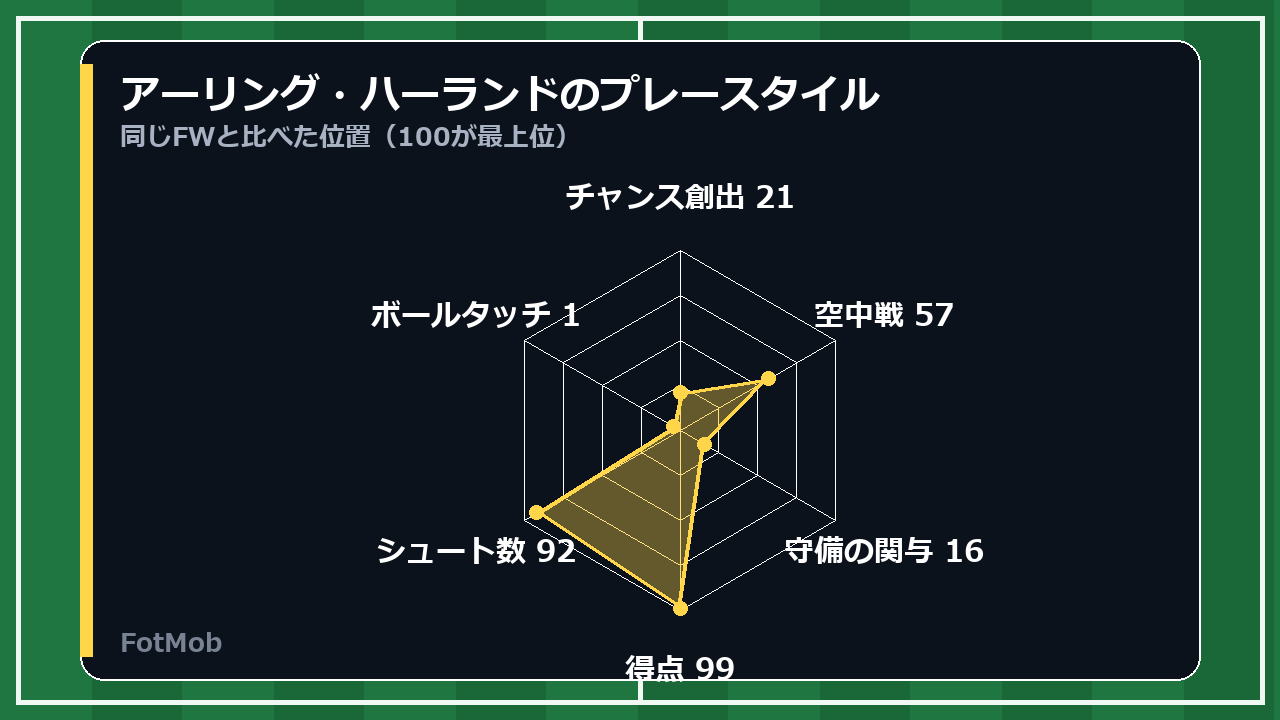
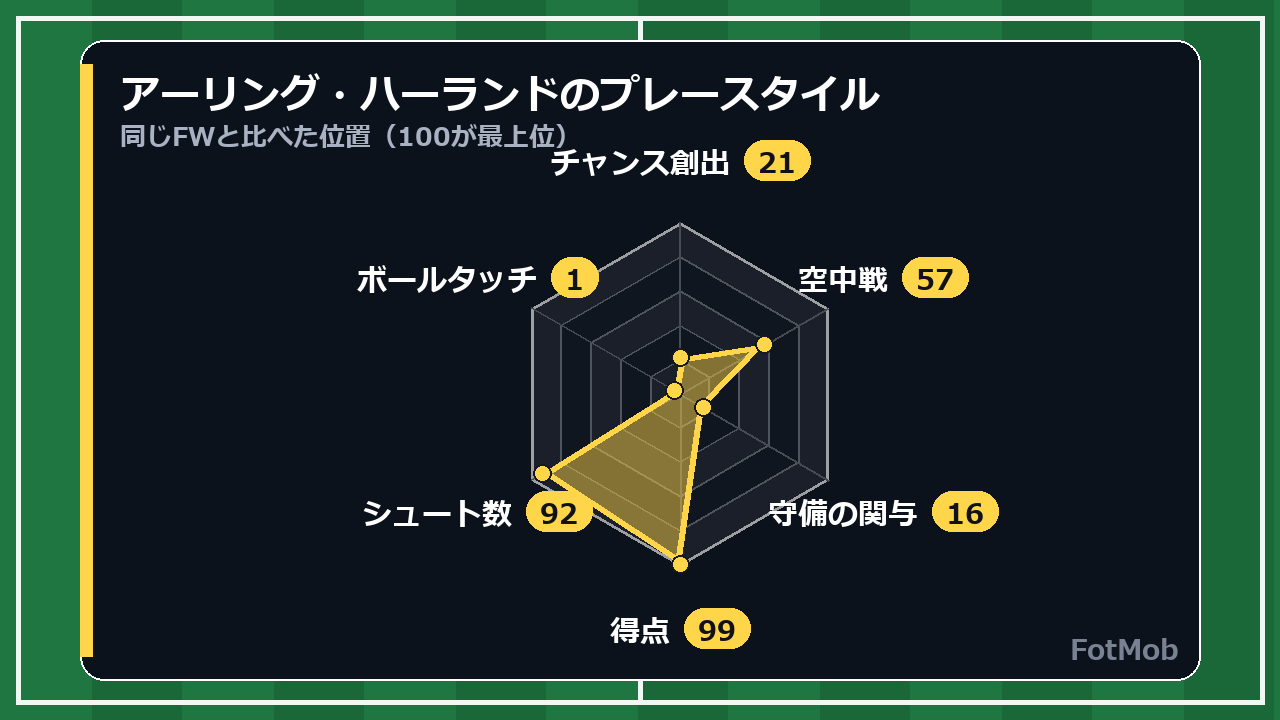
図と表の質を上げる：棒グラフ（太い棒・グラデ・目盛り・右揃え）、表（数字の右揃え・評点の強調）、レーダー（5段の網目・値の札）、シュートマップ（数字の札・縞・ゴール枠・光）

Changed region(s): [[0.2812, 0.1833, 0.7812, 0.9472], [0.8125, 0.8861, 0.9375, 0.9167], [0.0938, 0.8861, 0.1875, 0.9167]]

diff --git a/projects/youtube-video-creation/tools/fotmob_player.py b/projects/youtube-video-creation/tools/fotmob_player.py
@@ -178,28 +178,39 @@ def radar_board(group: str, items: list[tuple[str, float]], out: Path, name: str
     draw.text((px + 40, py + 26), f"{name}のプレースタイル", font=_font(40), fill=(255, 255, 255, 255))
     draw.text((px + 40, py + 78), f"{group}と比べた位置（100が最上位）", font=_font(26), fill=(168, 178, 194, 255))
     # 上の軸の文字が見出しと重ならないよう、中心を下げて半径を抑える（実物で重なった）
-    cx, cy, r = px + pw // 2 + 40, py + ph // 2 + 70, 180
+    cx, cy, r = px + pw // 2 + 40, py + ph // 2 + 34, 172
     n = max(3, len(items))
     angles = [-math.pi / 2 + 2 * math.pi * i / n for i in range(n)]
-    for level in (0.25, 0.5, 0.75, 1.0):
+    # 網目：5段。段ごとに薄い塗りを交互に入れて奥行きを出す（2026-09-28「図のクオリティを上げて」）
+    web = Image.new("RGBA", canvas.size, (0, 0, 0, 0))
+    wd = ImageDraw.Draw(web)
+    for k in range(5, 0, -1):
+        level = k / 5
         pts = [(cx + r * level * math.cos(a), cy + r * level * math.sin(a)) for a in angles]
-        draw.polygon(pts, outline=(255, 255, 255, 60 if level < 1.0 else 120))
+        wd.polygon(pts, fill=(255, 255, 255, 14 if k % 2 else 4), outline=(255, 255, 255, 70 if k < 5 else 150), width=2 if k < 5 else 3)
     for a in angles:
-        draw.line([(cx, cy), (cx + r * math.cos(a), cy + r * math.sin(a))], fill=(255, 255, 255, 50), width=1)
+        wd.line([(cx, cy), (cx + r * math.cos(a), cy + r * math.sin(a))], fill=(255, 255, 255, 60), width=2)
+    canvas.alpha_composite(web)
     layer = Image.new("RGBA", canvas.size, (0, 0, 0, 0))
     ld = ImageDraw.Draw(layer)
     pts = [(cx + r * max(0.04, v) * math.cos(a), cy + r * max(0.04, v) * math.sin(a)) for (_, v), a in zip(items, angles)]
-    ld.polygon(pts, fill=BRAND_GOLD + (90,), outline=BRAND_GOLD + (255,), width=4)
+    ld.polygon(pts, fill=BRAND_GOLD + (120,), outline=BRAND_GOLD + (255,), width=6)
     canvas.alpha_composite(layer)
     draw = ImageDraw.Draw(canvas)
-    f_label, f_val = _font(30), _font(26)
+    f_label, f_val = _font(30), _font(28)
     for (label, v), a, (x, y) in zip(items, angles, pts):
-        draw.ellipse([x - 7, y - 7, x + 7, y + 7], fill=BRAND_GOLD + (255,))
-        lx, ly = cx + (r + 56) * math.cos(a), cy + (r + 56) * math.sin(a)
-        text = f"{label} {int(round(v * 100))}"
-        tw = draw.textlength(text, font=f_label)
-        draw.text((lx - tw / 2, ly - 18), text, font=f_label, fill=(255, 255, 255, 255))
-    draw.text((px + 40, py + ph - 56), "FotMob", font=f_val, fill=(120, 130, 146, 255))
+        draw.ellipse([x - 9, y - 9, x + 9, y + 9], fill=BRAND_GOLD + (255,), outline=(20, 24, 32, 255), width=2)
+        lx, ly = cx + (r + 62) * math.cos(a), cy + (r + 62) * math.sin(a)
+        # 軸の名前（白）＋ 値の札（黄の丸い札に濃い字）
+        value = f"{int(round(v * 100))}"
+        tw, vw = draw.textlength(label, font=f_label), draw.textlength(value, font=f_val)
+        total = tw + 14 + vw + 28
+        x0 = lx - total / 2
+        draw.text((x0, ly - 18), label, font=f_label, fill=(255, 255, 255, 255))
+        chip = [x0 + tw + 14, ly - 20, x0 + tw + 14 + vw + 28, ly + 20]
+        draw.rounded_rectangle(chip, radius=20, fill=BRAND_GOLD + (255,))
+        draw.text((chip[0] + 14, ly - 17), value, font=f_val, fill=(16, 18, 24, 255))
+    draw.text((px + pw - 130, py + ph - 50), "FotMob", font=f_val, fill=(120, 130, 146, 255))
     out.parent.mkdir(parents=True, exist_ok=True)
     canvas.convert("RGB").save(out)
     statboard._write_mark(out, f"{name}のプレースタイル", "percentile", [(l, round(v * 100)) for l, v in items], "FotMob")
@@ -218,10 +229,22 @@ def shotmap_board(shot_list: list[dict], out: Path, name: str, season_label: str
     goals = [s for s in shot_list if s.get("eventType") == "Goal"]
     xg = sum(float(s.get("expectedGoals") or 0) for s in shot_list)
     draw.text((px + 40, py + 26), f"{name}の{season_label}のシュート", font=_font(40), fill=(255, 255, 255, 255))
-    draw.text((px + 40, py + 78), f"シュート{len(shot_list)}本、得点{len(goals)}、xG合計{xg:.1f}", font=_font(26), fill=(168, 178, 194, 255))
-    # 敵陣の半面。ゴールが上。横=幅68m、縦=52.5m
+    draw.text((px + 40, py + 78), "丸の位置＝どこから蹴ったか、大きさ＝xG（決まりやすさ）", font=_font(26), fill=(168, 178, 194, 255))
+    # 左に大きな数字の札（シュート・得点・xG）
+    f_big, f_small = _font(56), _font(24)
+    ty = py + 130
+    for label, value in (("シュート", f"{len(shot_list)}"), ("得点", f"{len(goals)}"), ("xG合計", f"{xg:.1f}")):
+        draw.rounded_rectangle([px + 40, ty, px + 300, ty + 96], radius=16, fill=(30, 36, 48, 255))
+        draw.text((px + 60, ty + 10), label, font=f_small, fill=(168, 178, 194, 255))
+        vw = draw.textlength(value, font=f_big)
+        draw.text((px + 280 - vw, ty + 30), value, font=f_big, fill=BRAND_GOLD + (255,))
+        ty += 110
+    # 敵陣の半面。ゴールが上。横=幅68m、縦=52.5m。芝は縞にする
     gx, gy, gw, gh = px + 360, py + 130, 560, ph - 190
-    draw.rectangle([gx, gy, gx + gw, gy + gh], fill=(28, 96, 60, 255), outline=(230, 230, 230, 255), width=3)
+    stripe = gh // 8
+    for i in range(8):
+        draw.rectangle([gx, gy + i * stripe, gx + gw, gy + (i + 1) * stripe], fill=(30, 104, 64, 255) if i % 2 else (26, 92, 56, 255))
+    draw.rectangle([gx, gy, gx + gw, gy + gh], outline=(230, 230, 230, 255), width=3)
 
     def X(y_m):  # 幅方向（0〜68）→ 横
         return gx + gw * (y_m / PITCH_WID)
@@ -232,7 +255,10 @@ def shotmap_board(shot_list: list[dict], out: Path, name: str, season_label: str
     # ペナルティエリア・ゴールエリア・ゴール・センターサークル（半円）
     draw.rectangle([X(34 - 20.16), Y(105), X(34 + 20.16), Y(105 - 16.5)], outline=(230, 230, 230, 255), width=3)
     draw.rectangle([X(34 - 9.16), Y(105), X(34 + 9.16), Y(105 - 5.5)], outline=(230, 230, 230, 255), width=3)
-    draw.rectangle([X(34 - 3.66), gy - 12, X(34 + 3.66), gy], fill=(255, 255, 255, 255))
+    # ゴール枠（網の点も置く）
+    draw.rectangle([X(34 - 3.66), gy - 16, X(34 + 3.66), gy], fill=(245, 245, 245, 255))
+    for i in range(int(X(34 - 3.66)) + 6, int(X(34 + 3.66)) - 4, 8):
+        draw.line([(i, gy - 14), (i, gy - 2)], fill=(180, 180, 180, 255), width=1)
     draw.ellipse([X(34) - 3, Y(94) - 3, X(34) + 3, Y(94) + 3], fill=(230, 230, 230, 255))
     cr = gw * (9.15 / PITCH_WID)
     draw.arc([X(34) - cr, Y(52.5) - cr, X(34) + cr, Y(52.5) + cr], start=180, end=360, fill=(230, 230, 230, 255), width=3)
@@ -243,13 +269,19 @@ def shotmap_board(shot_list: list[dict], out: Path, name: str, season_label: str
         rad = 7 + 26 * float(s.get("expectedGoals") or 0) ** 0.5
         cx, cy = X(y), Y(x)
         if s.get("eventType") == "Goal":
+            # 得点はやわらかい光を敷いてから
+            glow = Image.new("RGBA", canvas.size, (0, 0, 0, 0))
+            gd = ImageDraw.Draw(glow)
+            gd.ellipse([cx - rad * 1.9, cy - rad * 1.9, cx + rad * 1.9, cy + rad * 1.9], fill=BRAND_GOLD + (70,))
+            canvas.alpha_composite(glow)
+            draw = ImageDraw.Draw(canvas)
             draw.ellipse([cx - rad, cy - rad, cx + rad, cy + rad], fill=BRAND_GOLD + (255,), outline=(20, 20, 20, 255), width=2)
         elif s.get("isOnTarget"):
             draw.ellipse([cx - rad, cy - rad, cx + rad, cy + rad], fill=(255, 255, 255, 60), outline=(255, 255, 255, 255), width=3)
         else:
             draw.ellipse([cx - rad, cy - rad, cx + rad, cy + rad], fill=(90, 96, 108, 200), outline=(200, 200, 200, 160), width=2)
-    # 凡例
-    lx, ly = px + 40, py + 150
+    # 凡例（数字の札の下）
+    lx, ly = px + 40, py + 470
     f = _font(28)
     for label, style in (("得点", "goal"), ("枠内", "on"), ("外れ・ブロック", "off")):
         if style == "goal":
@@ -260,8 +292,7 @@ def shotmap_board(shot_list: list[dict], out: Path, name: str, season_label: str
             draw.ellipse([lx, ly, lx + 26, ly + 26], fill=(90, 96, 108, 200), outline=(200, 200, 200, 160), width=2)
         draw.text((lx + 40, ly - 4), label, font=f, fill=(255, 255, 255, 255))
         ly += 50
-    draw.text((lx, ly + 10), "丸の大きさ＝xG", font=f, fill=(168, 178, 194, 255))
-    draw.text((px + 40, py + ph - 56), "FotMob", font=_font(26), fill=(120, 130, 146, 255))
+    draw.text((px + pw - 130, py + ph - 50), "FotMob", font=_font(26), fill=(120, 130, 146, 255))
     out.parent.mkdir(parents=True, exist_ok=True)
     canvas.convert("RGB").save(out)
     statboard._write_mark(out, f"{name}の{season_label}のシュート", "xG", [("shots", len(shot_list)), ("goals", len(goals)), ("xg", round(xg, 2))], "FotMob")

diff --git a/projects/youtube-video-creation/src/cards.py b/projects/youtube-video-creation/src/cards.py
@@ -471,9 +471,11 @@ def _bars(spec: dict, width: int, font_path: str, latin_path: str) -> list[dict]
     同じ指標どうしの比較なので棒は1色で通し、注目させたい1本だけ明るくする。
     数値は棒の右端に直接置く（動画なのでホバーで見せられない）。
     """
-    title_font = ImageFont.truetype(font_path, 42)
-    label_font = ImageFont.truetype(font_path, 34)
-    value_font = ImageFont.truetype(font_path, 34)
+    # **図の質を上げる**（2026-09-28 ユーザー「図や表のクオリティを上げて」）。
+    # 棒は太く（44px）、注目の1本は黄、ほかは緑のグラデ。薄い目盛りと、値の右揃え
+    title_font = ImageFont.truetype(font_path, 44)
+    label_font = ImageFont.truetype(font_path, 36)
+    value_font = ImageFont.truetype(font_path, 40)
 
     items = [dict(item) for item in (spec.get("items") or [])]
     if not items:
@@ -503,28 +505,40 @@ def _bars(spec: dict, width: int, font_path: str, latin_path: str) -> list[dict]
             }
         )
 
-    bar_left = PAD + 12 + label_width + 24
-    bar_span = width - PAD - bar_left - value_width - 34
-    row_height = 54
+    bar_left = PAD + 12 + label_width + 28
+    value_col = width - PAD - 12
+    bar_span = value_col - bar_left - value_width - 36
+    row_height = 70
+
+    def draw_scale(draw, y):
+        # 薄い目盛り（最大値の 1/4 ごと）。値の見当が付く
+        for k in range(1, 5):
+            x = bar_left + int(bar_span * k / 4)
+            draw.line([(x, y), (x, y + row_height * min(6, len(items)) + 8)], fill=(255, 255, 255, 22), width=1)
+
+    blocks.append({"height": 8, "draw": draw_scale})
 
     for item in items[:6]:
         ratio = max(0.0, float(item["value"])) / top
-        color = BAR_HIGHLIGHT if item.get("highlight") else BAR_BASE
+        strong = bool(item.get("highlight"))
 
-        def draw_row(draw, y, item=item, ratio=ratio, color=color):
-            draw.text((PAD + 12, y + 6), str(item["label"]), font=label_font, fill=SUB)
-            length = max(6, int(bar_span * ratio))
-            # 端を少し丸めた細い棒。土台（左端）は角を立てて基準線に合わせる
-            draw.rounded_rectangle(
-                [bar_left, y + 8, bar_left + length, y + 42], radius=4, fill=color + (255,)
-            )
-            draw.rectangle([bar_left, y + 8, bar_left + 6, y + 42], fill=color + (255,))
-            draw.text(
-                (bar_left + length + 16, y + 6),
-                f"{_number(item['value'])}{unit}",
-                font=value_font,
-                fill=TEXT,
-            )
+        def draw_row(draw, y, item=item, ratio=ratio, strong=strong):
+            draw.text((PAD + 12, y + 12), str(item["label"]), font=label_font, fill=TEXT)
+            length = max(8, int(bar_span * ratio))
+            top_y, bottom_y = y + 10, y + 54
+            # 土台の溝（薄い帯）に、色の棒を重ねる。棒は左から右へ明るくなるグラデ
+            draw.rounded_rectangle([bar_left, top_y, bar_left + bar_span, bottom_y], radius=10, fill=(255, 255, 255, 16))
+            start, end = ((196, 150, 20), (255, 213, 74)) if strong else ((11, 61, 46), (46, 140, 96))
+            for i in range(length):
+                t = i / max(1, length - 1)
+                color = tuple(int(start[c] + (end[c] - start[c]) * t) for c in range(3))
+                draw.line([(bar_left + i, top_y), (bar_left + i, bottom_y)], fill=color + (255,))
+            # 右端を丸める（半円を重ねる）
+            r = (bottom_y - top_y) // 2
+            draw.pieslice([bar_left + length - r, top_y, bar_left + length + r, bottom_y], start=270, end=90, fill=end + (255,))
+            text = f"{_number(item['value'])}{unit}"
+            tw = draw.textlength(text, font=value_font)
+            draw.text((value_col - tw, y + 8), text, font=value_font, fill=BRAND_GOLD if strong else TEXT)
 
         blocks.append({"height": row_height, "draw": draw_row, "row": True})
 
@@ -534,6 +548,20 @@ def _bars(spec: dict, width: int, font_path: str, latin_path: str) -> list[dict]
         blocks.append({"height": 14, "draw": lambda draw, y: None})
         blocks.append(_text_block(note, note_font, width - PAD * 2 - 12, SUB, 6))
     return blocks
+
+
+import re as _re
+
+NUMERIC_CELL = _re.compile(r"^[+\-−]?[\d,.]+(?:[%点本人回分秒位歳億万勝敗分試合GAkm]|G \d+A|試合（先発\d+）)?$|^[\d,.]+G [\d,.]+A$|^―$|^→$|^[↑↓]\d+$|^new$")
+RATING_CELL = _re.compile(r"^\d\.\d$")
+
+
+def _looks_numeric(text: str) -> bool:
+    return bool(NUMERIC_CELL.match(str(text).strip()))
+
+
+def _looks_rating(text: str) -> bool:
+    return bool(RATING_CELL.match(str(text).strip()))
 
 
 def _fit_cell(draw, text: str, font, room: float) -> str:
@@ -611,12 +639,19 @@ def _table(spec: dict, width: int, font_path: str, latin_path: str) -> list[dict
             }
         )
 
+    # 列の中身が数字（単位つきを含む）なら右揃えにする
+    numeric = [all(_looks_numeric(row[index]) for row in rows) for index in range(len(columns))]
+
     # 見出し行は緑の帯に黄色の字（罫線1本より目が行く）
     def draw_head(draw, y):
         draw.rectangle([PAD - 8, y - 6, width - PAD + 8, y + 44], fill=BRAND_GREEN)
         x = PAD + 12
         for index, name in enumerate(columns):
-            draw.text((x, y + 2), name, font=head_font, fill=BRAND_GOLD)
+            if numeric[index] and index > 0:
+                tw = draw.textlength(name, font=head_font)
+                draw.text((x + widths[index] - 16 - tw, y + 2), name, font=head_font, fill=BRAND_GOLD)
+            else:
+                draw.text((x, y + 2), name, font=head_font, fill=BRAND_GOLD)
             x += widths[index]
 
     blocks.append({"height": 58, "draw": draw_head})
@@ -636,9 +671,17 @@ def _table(spec: dict, width: int, font_path: str, latin_path: str) -> list[dict
             for index, cell in enumerate(row):
                 last = index == len(row) - 1
                 color = BRAND_GOLD if (number == highlight and last) else (TEXT if index != 0 else SUB)
+                # 評点（7.9 のような小数1桁）は 8.0 以上を黄で目立たせる
+                if _looks_rating(cell) and float(cell) >= 8.0:
+                    color = BRAND_GOLD
                 # **列からはみ出させない。**はみ出すと隣の字に重なる
                 shown = _fit_cell(draw, cell, cell_font, widths[index] - 16)
-                draw.text((x, y + 10), shown, font=cell_font, fill=color)
+                # **数字の列は右揃え**（2026-09-28「図や表のクオリティ」）。左揃えだと桁が揃わない
+                if numeric[index] and index > 0:
+                    tw = draw.textlength(shown, font=cell_font)
+                    draw.text((x + widths[index] - 16 - tw, y + 10), shown, font=cell_font, fill=color)
+                else:
+                    draw.text((x, y + 10), shown, font=cell_font, fill=color)
                 x += widths[index]
 
         blocks.append({"height": row_h, "draw": draw_row, "row": True})

diff --git a/projects/youtube-video-creation/CLAUDE.md b/projects/youtube-video-creation/CLAUDE.md
@@ -79,7 +79,8 @@
   |---|---|---|---|
   | 1 週報 | `python tools/japan_abroad.py week --to <月曜> --note research/<日付>_weekly.yaml` | 48人の名簿（`config/japan_abroad.yaml`）から、その週の出場・得点の表と3人の掘り下げの雛形 | 雛形まで。初回は 10/5（9/22〜28 は代表ウィークでクラブの試合が無い） |
   | 9 試合の数字 | `python tools/match_numbers.py --date <試合日>` で注目度の順に並べ、`--match <id>` で1試合の板（`assets/stats/match_<日付>_<id>.png`）と雛形（`research/<日付>_match_<id>.yaml`） | 得点の流れ（先制・追加点・1点返す・同点・逆転で読む）→ 両チームの数字（支配率・xG・シュート・枠内・決定機・パス・走行距離・デュエル）→ 採点の高い選手 → 見立て。**注目度は目安で、選ぶのは人**。スコアと得点者は公式の試合記録まで辿って 確定 に上げる。選手名は `research/kana/players.json` に足していく（英語のままの名前は雛形の頭に出る） | 雛形と draft・板まで通した（アトレティコ対レアル 9/20 で試した） |
-  | 21 選手紹介 | 人選は `python tools/player_pool.py build`（5大リーグの6位までとビッグクラブの選手を Transfermarkt から控える。10分）→ `list --count 31`（市場価値の順にリーグとクラブをばらして番号付きで出す。**○×はユーザー**）。雛形は `python tools/player_intro.py <番号> --date <日付>` | 基礎DATA（表）→ 歩んできた道（季ごとの所属と市場価値、U19 とトップは1行）→ 今季の数字（大会別、main）→ 見立て。日本語名は Wikidata（P2446）→ `research/kana/players.json` で上書き（ホランド → ハーランド）。**顔写真は人が取る**（`thumbnail.photos` は空で出る）。バロンドール候補は API に無いので手で書く | 雛形と draft まで通した（エムバペ 342229 で試した）。人選一覧はユーザーに見せる前 |
+  | 21 選手紹介（**8節の型**、2026-09-28 夜に作り直し） | 人選は `python tools/player_pool.py build`（5大リーグの6位までとビッグクラブの選手を Transfermarkt から控える。10分）→ `list --count 31`（市場価値の順にリーグとクラブをばらして番号付きで出す。**○×はユーザー**）。雛形は `python tools/player_intro.py <番号> --date <日付>` | 基礎DATA（表）→ 歩んできた道（季ごとの所属と市場価値、U19 とトップは1行）→ 今季の数字（大会別、main）→ 見立て。日本語名は Wikidata（P2446）→ `research/kana/players.json` で上書き（ホランド → ハーランド）。**顔写真は人が取る**（`thumbnail.photos` は空で出る）。バロンドール候補は API に無いので手で書く | 雛形と draft まで通した（エムバペ 342229 で試した）。人選一覧はユーザーに見せる前 |
+  | 21 の型の中身 | ユーザー「数字の列挙以外の要素（プレースタイル・マル秘話）も盛り込みたい。選手紹介の動画やサイトを調べて品質を上げて」→ 下請け2つで調べた（伸びているのは物語・エピソード型、数字だけは伸びない）。**8節**：フック（一言の定義＋意外な事実＋本人の言葉）→ 基礎DATA（表）→ 歩んできた道と転機（表＋転機の話）→ プレースタイル（**レーダー**と**シュートマップ**の板＋武器3つ弱点1つの棒グラフ）→ 過去5シーズン（表）→ 今季と直近5試合の評点（表）→ マル秘話（出典つきのエピソード2つ、本人の言葉）→ 見立て（比較・弱点・次戦）。材料は `research/raw/<日付>_<選手>_material.md` に下請けが出典つきで集める。板は `python tools/fotmob_player.py boards <FotMobの番号> --name <日本語名> --date <日付>`（FotMob の同ポジション比パーセンタイルとシュートマップ。`find <英語名>` で番号）。**写真は時期ごとに切り替え、同じ選手を横に並べない**（縦写真は `tools/widecrop.py` で顔を残して16:9に切る。表のある節なら縦のままでよい）。**選手の回にスタジアムの写真は出さない**。見本はハーランド（約5分24秒） | 見本の台本まで（ユーザー確認待ち） |
   | 22 比較 | `python tools/player_compare.py <番号> <番号> --date <金曜>` | 2人の基礎DATA（2列）→ 今季の数字（2列＋90分あたり、main）→ 市場価値の歩み（最高額とそのときの年齢）→ 見立て。**どちらが上かは言い切らない**。サムネは2枚並べて `face_link: VS` | 雛形と draft まで通した（エムバペ対ハーランドで試した） |
   | 4 解説 | `python -m src.cli plan --routine explain --write`（取材計画の雛形。数える道具は無い） | 問い → 仕組み → 数字（表）→ 今季の実例 → 見立て。**規定の原文（UEFA・リーグ・FIFA の公式）まで辿る**。記事の言い換えを根拠にしない | 雛形まで |
   | 5・11 得点王レース | `python tools/scorers.py --date <木曜>` | 5リーグの得点ランキング（PKの内訳・試合数・出場時間つき）を控え、先週比と「今週の1つ」の候補（首位交代・独走・90分あたりの効率・PK頼み・急浮上・**日本人**）を雛形の頭に。板は先頭の候補のリーグの棒グラフ（姓だけ）。日本語名は辞書 → Wikidata（英語名で引いて `research/kana/wikidata_by_name.json` に控える） | 雛形と draft・板まで通した（初回の控え 9/28、10/1 から先週比） |
@@ -118,6 +119,7 @@
 | **写真の下** | 0.40 から下を暗く（字が読める）。ぼかしはしない | 0.56 から薄く |
 | **進捗バー** | 画面の下端に 8px の黄色い線が時間で伸びる。**ffmpeg の overlay を時間で動かす**（フレームに描くと行ごとに別の絵になって使い回しが効かない。drawbox は式を1回しか評価しないので動かない）。ショートには出さない | 無し |
 
+- **図と表の質**（2026-09-28 夜「図や表のクオリティを上げて」）：棒グラフは太い棒（注目は黄、ほかは緑のグラデ）＋薄い目盛り＋値は右揃え。表は数字の列を右揃え、評点8.0以上は黄。レーダーは5段の網目＋値の黄色い札。シュートマップは左に大きな数字の札（シュート・得点・xG）、芝の縞、ゴール枠、得点に光。**半透明の塗りを RGBA の板に直接描くと白く抜ける**（数字の札で踏んだ）。不透明の色で塗る
 - 見本の作り方：同じ場面の写真の上に PIL で1枚描いて見せ、「見やすく」と言われたら**表を不透明に・字を一回り大きく・顔を表の外へ**の3つを直した（scratchpad の mock_look.py）
 - **動きの段（同じ日の夜）**
   | 動き | いま |
